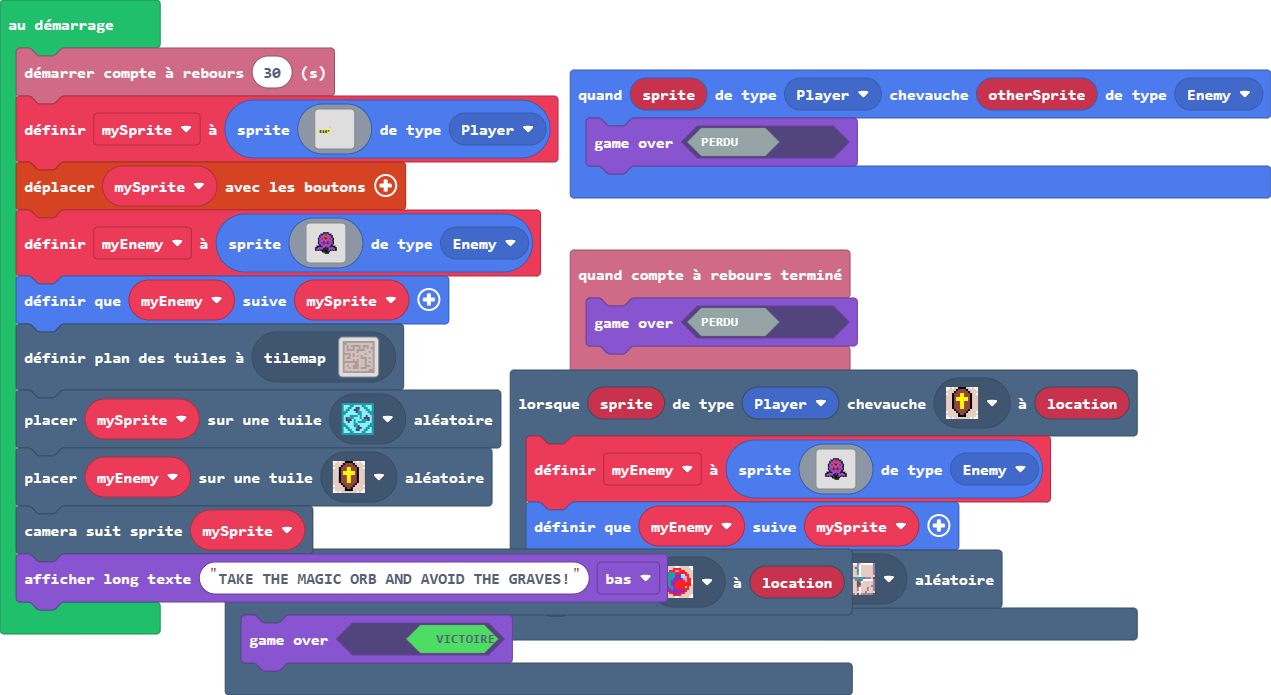
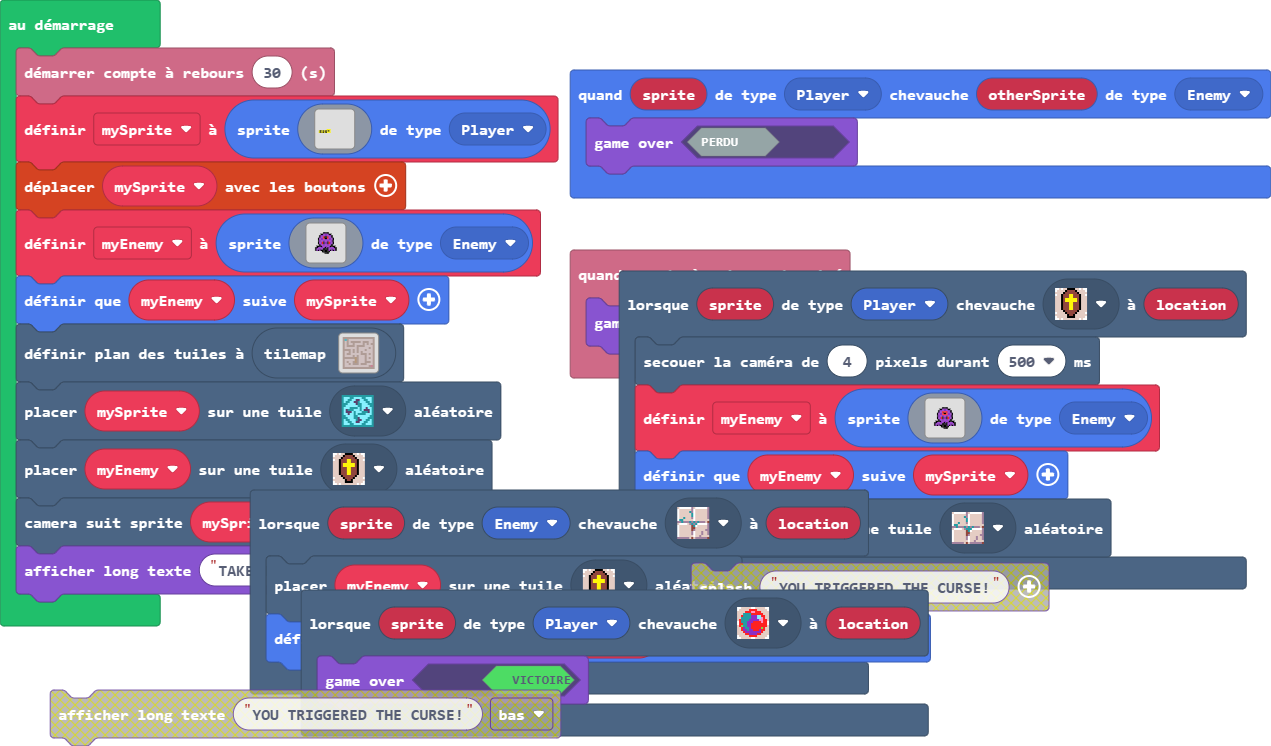
changement map, tremblement de terre au cimeterre, et un peu plus...

diff --git a/tilemap.g.ts b/tilemap.g.ts
@@ -12,28 +12,68 @@ namespace myTiles {
     export const tile4 = image.ofBuffer(hex``);
     //% fixedInstance jres blockIdentity=images._tile
     export const tile5 = image.ofBuffer(hex``);
+    //% fixedInstance jres blockIdentity=images._tile
+    export const tile6 = image.ofBuffer(hex``);
 
     helpers._registerFactory("tilemap", function(name: string) {
         switch(helpers.stringTrim(name)) {
+            case "niveau2":
+            case "niveau2":return tiles.createTilemap(hex`1000100000000000000000000000000000000000000000000000000000000000000000000000000000000000000000000000000000000000000000000000000000000000000000000000000000000000000000000000000000000000000000000000000000000000000000000000000000000000000000000000000000000000000000000000000000000000000000000000000000000000000000000000000000000000000000000000000000000000000000000000000000000000000000000000000000000000000000000000000000000000000000000000000000000000000000000000000000000000000000000000000000000000000000000000000000000000`, img`
+. . . . . . . . . . . . . . . . 
+. . . . . . . . . . . . . . . . 
+. . . . . . . . . . . . . . . . 
+. . . . . . . . . . . . . . . . 
+. . . . . . . . . . . . . . . . 
+. . . . . . . . . . . . . . . . 
+. . . . . . . . . . . . . . . . 
+. . . . . . . . . . . . . . . . 
+. . . . . . . . . . . . . . . . 
+. . . . . . . . . . . . . . . . 
+. . . . . . . . . . . . . . . . 
+. . . . . . . . . . . . . . . . 
+. . . . . . . . . . . . . . . . 
+. . . . . . . . . . . . . . . . 
+. . . . . . . . . . . . . . . . 
+. . . . . . . . . . . . . . . . 
+`, [myTiles.transparency16], TileScale.Sixteen);
             case "niveau1":
-            case "niveau1":return tiles.createTilemap(hex`1000100004040404040404040404040404040404040201010101010101010101010101040401040104040404040104040401010404010401010401010401040104010404040104040404010404040401010101040401010101010104010101010104010404040404010401010101010401010104040101040104010401040101010101040401040401010101010404040104010404010101010401040101010401010104040404040404050401010104010401040401010101010504010101040101010404010401010405040101010404040104040101040104040401040404010101040401010101010101010101010104030404040404040404040404040404040404`, img`
+            case "niveau1":return tiles.createTilemap(hex`1000100004040404040404040404040404040404040204010101010101010101010101040401040104040404040104040401010404010401010401010101040104010404040104040404010404040401010101040406010101010104010101010104010404040404010401040101010401010104040101040104010401040101010101040401040401010101010404040104010404010101010401040101010401010104040404040404050401010104010401040401010101010504010101040101010404010401010405040101010404040104040101040104040401040404010101040401010101010101010101010104030404040404040404040404040404040404`, img`
 2 2 2 2 2 2 2 2 2 2 2 2 2 2 2 2 
-2 . . . . . . . . . . . . . . 2 
+2 . 2 . . . . . . . . . . . . 2 
 2 . 2 . 2 2 2 2 2 . 2 2 2 . . 2 
-2 . 2 . . 2 . . 2 . 2 . 2 . 2 2 
+2 . 2 . . 2 . . . . 2 . 2 . 2 2 
 2 . 2 2 2 2 . 2 2 2 2 . . . . 2 
 2 . . . . . . 2 . . . . . 2 . 2 
-2 2 2 2 . 2 . . . . . 2 . . . 2 
+2 2 2 2 . 2 . 2 . . . 2 . . . 2 
 2 . . 2 . 2 . 2 . 2 . . . . . 2 
 2 . 2 2 . . . . . 2 2 2 . 2 . 2 
 2 . . . . 2 . 2 . . . 2 . . . 2 
-2 2 2 2 2 2 . 2 . . . 2 . 2 . 2 
+2 . 2 2 2 2 . 2 . . . 2 . 2 . 2 
 2 . . . . . . 2 . . . 2 . . . 2 
 2 . 2 . . 2 . 2 . . . 2 2 2 . 2 
 2 . . 2 . 2 2 2 . 2 2 2 . . . 2 
 2 . . . . . . . . . . . . 2 . 2 
 2 2 2 2 2 2 2 2 2 2 2 2 2 2 2 2 
-`, [myTiles.transparency16,sprites.dungeon.floorLightMoss,sprites.dungeon.collectibleInsignia,myTiles.tile3,myTiles.tile4,myTiles.tile5], TileScale.Sixteen);
+`, [myTiles.transparency16,sprites.dungeon.floorLightMoss,sprites.dungeon.collectibleInsignia,myTiles.tile3,myTiles.tile4,myTiles.tile5,myTiles.tile6], TileScale.Sixteen);
+            case "niveau3":
+            case "niveau3":return tiles.createTilemap(hex`1000100000000000000000000000000000000000000000000000000000000000000000000000000000000000000000000000000000000000000000000000000000000000000000000000000000000000000000000000000000000000000000000000000000000000000000000000000000000000000000000000000000000000000000000000000000000000000000000000000000000000000000000000000000000000000000000000000000000000000000000000000000000000000000000000000000000000000000000000000000000000000000000000000000000000000000000000000000000000000000000000000000000000000000000000000000000000`, img`
+. . . . . . . . . . . . . . . . 
+. . . . . . . . . . . . . . . . 
+. . . . . . . . . . . . . . . . 
+. . . . . . . . . . . . . . . . 
+. . . . . . . . . . . . . . . . 
+. . . . . . . . . . . . . . . . 
+. . . . . . . . . . . . . . . . 
+. . . . . . . . . . . . . . . . 
+. . . . . . . . . . . . . . . . 
+. . . . . . . . . . . . . . . . 
+. . . . . . . . . . . . . . . . 
+. . . . . . . . . . . . . . . . 
+. . . . . . . . . . . . . . . . 
+. . . . . . . . . . . . . . . . 
+. . . . . . . . . . . . . . . . 
+. . . . . . . . . . . . . . . . 
+`, [myTiles.transparency16], TileScale.Sixteen);
         }
         return null;
     })
@@ -51,6 +91,8 @@ namespace myTiles {
             case "tile4":return tile4;
             case "myTile3":
             case "tile5":return tile5;
+            case "myTile4":
+            case "tile6":return tile6;
         }
         return null;
     })

diff --git a/main.ts b/main.ts
@@ -2,6 +2,7 @@ scene.onOverlapTile(SpriteKind.Player, assets.tile`myTile1`, function (sprite, l
     game.gameOver(true)
 })
 scene.onOverlapTile(SpriteKind.Player, assets.tile`myTile3`, function (sprite, location) {
+    scene.cameraShake(4, 500)
     myEnemy = sprites.create(img`
         ........................
         ........................
@@ -34,6 +35,10 @@ scene.onOverlapTile(SpriteKind.Player, assets.tile`myTile3`, function (sprite, l
 info.onCountdownEnd(function () {
     game.gameOver(false)
 })
+scene.onOverlapTile(SpriteKind.Enemy, assets.tile`myTile4`, function (sprite, location) {
+    tiles.placeOnRandomTile(myEnemy, assets.tile`myTile3`)
+    myEnemy.follow(mySprite, 150)
+})
 sprites.onOverlap(SpriteKind.Player, SpriteKind.Enemy, function (sprite, otherSprite) {
     game.gameOver(false)
 })
@@ -51,7 +56,7 @@ mySprite = sprites.create(img`
     ........................
     ........................
     ........................
-    ........3...............
+    ........................
     ........................
     ......555...............
     5f5f5f5f5...............
@@ -75,9 +80,9 @@ myEnemy = sprites.create(img`
     ..........ffff..........
     ........ffaaaaff........
     .......faaaaaaaaf.......
-    .......faa2222aaf.......
+    .......faa2ff2aaf.......
     ......faaa2ff2aaaf......
-    ......faaa2222aaaf......
+    ......faaaaaaaaaaf......
     ......faaaaaaaaaaf......
     ......faa2faaf2aaf......
     ......faa2faaf2aaf......
